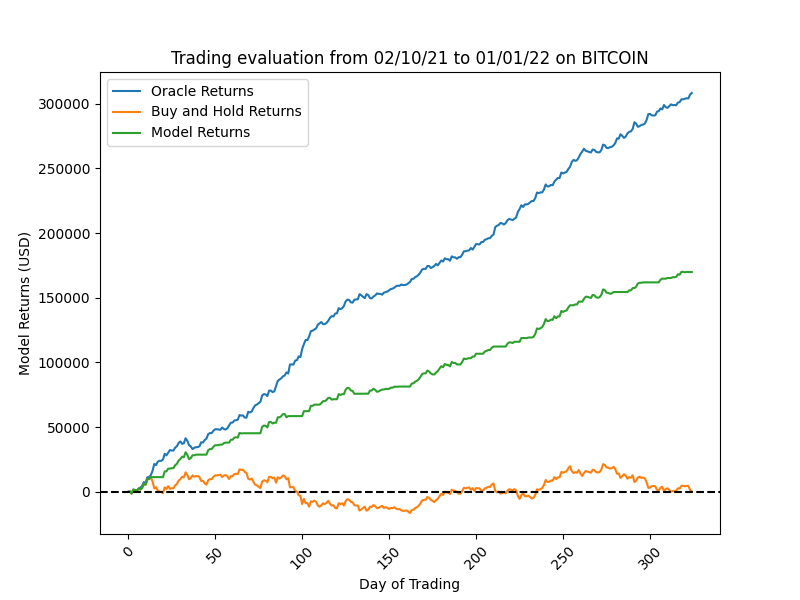
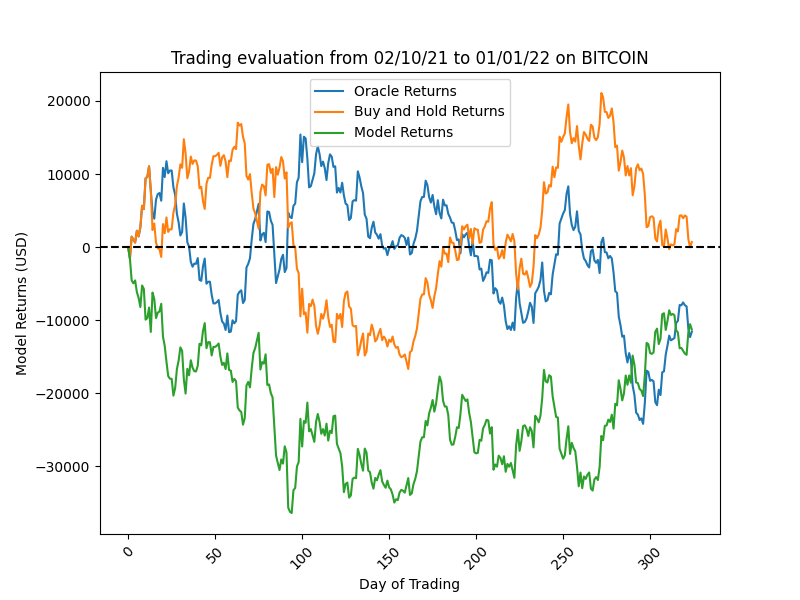
Updated some stuff, take a look

diff --git a/src/models/oracle/oracle.py b/src/models/oracle/oracle.py
@@ -32,7 +32,7 @@ OUT OF OR IN CONNECTION WITH THE SOFTWARE OR THE USE OR OTHER DEALINGS IN THE
 SOFTWARE.
 """
 import os
-from typing import Tuple, Dict, Union, List, Any
+from typing import Tuple, Dict, List
 
 import pandas as pd
 
@@ -143,8 +143,8 @@ def train_model(
 
     # an ordered dictionary of data
     data_source = OrderedDict()
-    data_source["open_diff"] = data["Open"] - data["Open"].shift(1)
-    data_source["open_roc"] = data["Open"] / data["Open"].shift(1)
+    data_source["close_diff"] = data["Close"] - data["Close"].shift(1)
+    data_source["close_roc"] = data["Close"] / data["Close"].shift(1)
     data_source["ind1"] = get_indicator(data, ind1_name, parameters["ind1"])
     data_source["ind2"] = get_indicator(data, ind2_name, parameters["ind2"])
 
@@ -165,7 +165,7 @@ def train_model(
     y_val = torch.tensor(y_val).to(device).float()
 
     # get separate inputs, outputs
-    open_train, open_val = x_train[:, :, :2], x_val[:, :, :2]
+    close_train, close_val = x_train[:, :, :2], x_val[:, :, :2]
     index_train, index_val = x_train[:, -1, 2:], x_val[:, -1, 2:]
     price_train, price_val = y_train[:, :, 0].view(-1), y_val[:, :, 0].view(-1)
 
@@ -186,7 +186,7 @@ def train_model(
     val_losses = []
     for e in range(1, num_epochs + 1):
         model.train()
-        predicted = model(open_train, index_train)
+        predicted = model(close_train, index_train)
         loss = criterion(predicted, price_train)
 
         # compute the gradients
@@ -195,7 +195,7 @@ def train_model(
         optimizer.step()
 
         with torch.no_grad():
-            val_predicted = model(open_val, index_val)
+            val_predicted = model(close_val, index_val)
             val_loss = criterion(val_predicted, price_val)
             val_losses.append(val_loss)
 
@@ -230,17 +230,17 @@ def evaluate(
 
     # an ordered dictionary of data
     data_source = OrderedDict()
-    data_source["open_diff"] = data["Open"] - data["Open"].shift(1)
-    data_source["open_roc"] = data["Open"] / data["Open"].shift(1)
-    # data_source['pct_change'] = data['Open'].pct_change()
+    data_source["close_diff"] = data["Close"] - data["Close"].shift(1)
+    data_source["close_roc"] = data["Close"] / data["Close"].shift(1)
+    # data_source['pct_change'] = data['Close'].pct_change()
     data_source["ind1"] = get_indicator(
         data, parameters["ind1"]["_name"], parameters["ind1"]
     )
     data_source["ind2"] = get_indicator(
         data, parameters["ind2"]["_name"], parameters["ind2"]
     )
-    data_source["open_diff"][0] = 0
-    data_source["open_roc"][0] = 1
+    data_source["close_diff"][0] = 0
+    data_source["close_roc"][0] = 1
 
     # Cut to 'start date'
     for k, v in data_source.items():
@@ -275,7 +275,7 @@ def evaluate(
     with torch.no_grad():
         trades = model(cost, index)
         # Rounded Trades
-        trades = torch.round(trades)
+        trades = torch.round(trades * 100) / 100
 
         # Calculating Absolute Returns
         abs_return = torch.mul(trades, tomorrow_price_diff)

diff --git a/src/models/custom/custom.py b/src/models/custom/custom.py
@@ -140,7 +140,7 @@ class Custom(nn.Module):
         linear_aggregator = torch.relu(
             self.linear_aggregator(indicators_and_linear_output)
         )
-        return torch.sigmoid(self.final_linear_layer(linear_aggregator)).view(-1)
+        return torch.tanh(self.final_linear_layer(linear_aggregator)).view(-1)
 
 
 def create_feature_list(
@@ -252,7 +252,9 @@ def train_model(
         x_train[:, -1, 2 * len(columns) :],
         x_val[:, -1, 2 * len(columns) :],
     )
-    price_train, price_val = y_train[:, :, 0].view(-1), y_val[:, :, 0].view(-1)
+    price_train, price_val = y_train[:, :, columns.index("Close") * 2].view(-1), y_val[
+        :, :, columns.index("Close") * 2
+    ].view(-1)
 
     model_params = {
         "features": map(lambda feature: feature.feature_data, train_list),
@@ -358,7 +360,7 @@ def evaluate(
 
     feature_list = create_feature_list(x, col_list, rnn_hidden_size)
     index = x[:, -1, 2 * len(col_list) :]
-    tomorrow_price_diff = y[:, :, 0].view(-1)
+    tomorrow_price_diff = y[:, :, columns.index("Close") * 2].view(-1)
 
     model_params = {
         "features": map(lambda feature: feature.feature_data, feature_list),
@@ -377,7 +379,7 @@ def evaluate(
     with torch.no_grad():
         trades = model(feature_list, index)
         # Rounded Trades
-        trades = torch.round(trades)
+        trades = torch.round(trades * 100) / 100
 
         # print(trades)
 

diff --git a/main.py b/main.py
@@ -73,10 +73,15 @@ print("#" * (len(custom_msg) + 2 * pad_len + 2))
 print("#" + pad_len * " " + custom_msg + pad_len * " " + "#")
 print("#" * (len(custom_msg) + 2 * pad_len + 2))
 _, custom_model = custom.train_model(
-    dataset, start_date, end_date, params_custom, ["Open"]
+    dataset, start_date, end_date, params_custom, ["Open", "Close"]
 )
 cus_preds, cus_trades = custom.evaluate(
-    dataset, start_pred_date, end_pred_date, params_custom, ["Open"], custom_model
+    dataset,
+    start_pred_date,
+    end_pred_date,
+    params_custom,
+    ["Open", "Close"],
+    custom_model,
 )
 
 d = [

diff --git a/src/tuning/custom_trial.py b/src/tuning/custom_trial.py
@@ -27,7 +27,7 @@ def prepare_custom(params: Dict) -> float:
     data = DataLoader()
     dataset = data.load_data(CryptoDataset("BITCOIN", "BTC-USD.csv"))
     val_min, _ = train_model(
-        dataset, "2017-01-01", "2021-01-01", params, ["Open", "Close"]
+        dataset, "2017-01-01", "2021-01-01", params, params["features"]
     )
     return val_min
 
